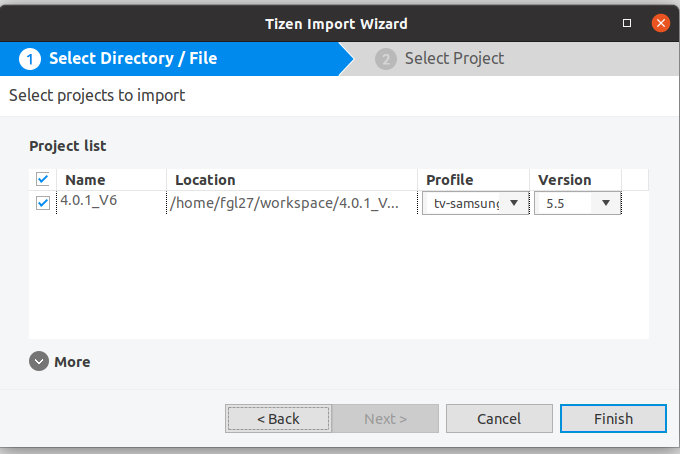
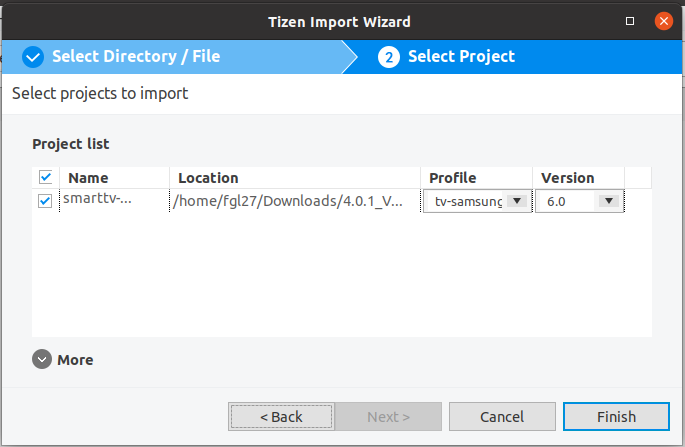
Updadate README.md

diff --git a/README.md b/README.md
@@ -227,11 +227,11 @@ sudo apt-get install openjdk-8-jdk
 
 ![mainsdk](https://fgl27.github.io/smarttv-twitch/screenshot/install/sdk_2.png)
 
-* Second tab **(Extension SDK)** under **TV Extensions-5.X** (or wherever newer/older X.X TV version there is) install **Web app. Development**, install **Samsung Certificate Extension** and under **TV Extension Tools** install **Web app. Tools**
+* Second tab **(Extension SDK)** under **TV Extensions-X.X** (or wherever newer/older X.X TV version there is) install **Web app. Development**, install **Samsung Certificate Extension** and under **TV Extension Tools** install **Web app. Tools**
 
 ![extensionsdk](https://fgl27.github.io/smarttv-twitch/screenshot/install/sdk_4.png)
 
-* After latest update of Tizen Studio version 4.1 the TV Extensions became unavailable, this is a Tizen studio bug that may already be fixed but if that is still a issue when you are reading this check this... [Missing TV extension on Package Manager](https://github.com/fgl27/smarttv-twitch/issues/157#issuecomment-757519336)
+* After latest update of Tizen Studio version 4.1 the TV Extensions became unavailable, this is a Tizen studio bug that may already be fixed but if that is still a issue when you are reading this check this... [Missing TV extension on Package Manager](https://github.com/fgl27/smarttv-twitch/issues/157#issuecomment-842215657)
 * Tizen is always changing the packages that are available some packages may became deprecated and not show anymore, proceed with the installation process even if packages aren't available for you, report a issue if the application doesn't install but make sure you go to all steps at least once again after a problem just revise it all before reporting.*
 * After everything finishes installing as you close the package manager it will ask if you want to open the **Tizen Studio** - click YES to open it. On windows it may ask you to give firewall permission for Tizen.
 
@@ -287,7 +287,7 @@ If you have a problem on connecting refer back to **[Account and Downloads:](htt
 
 ### Setup the application:
 
-* **[Download and extract the release_4_0_1_V7.zip file Click here, this is the application recipe file](https://github.com/fgl27/smarttv-twitch/releases/download/4.0.1_V7/4.0.1_V7.zip)**
+* **[Download and extract the release_4_0_1_V8.zip file Click here, this is the application recipe file](https://github.com/fgl27/smarttv-twitch/releases/download/4.0.1_V8/4.0.1_V8.zip)**
 
 * Making the app, Top menu > File >Import > Tizen > Tizen Project > Click Browser > Select the extraced folder > Click Next > Click Finish
 * Wait for it to load
@@ -299,7 +299,11 @@ If you have a problem on connecting refer back to **[Account and Downloads:](htt
 ![install_app5](https://fgl27.github.io/smarttv-twitch/screenshot/install/install_app5.png)
 ![install_app5](https://fgl27.github.io/smarttv-twitch/screenshot/install/install_app6.png)
 
-* After latest update of Tizen Studio version 4.1 the TV Extensions became unavailable causing a error on the above step, this is a Tizen studio bug that may already be fixed but if that is still a issue when you are reading this check this... [Missing TV extension on Package Manager](https://github.com/fgl27/smarttv-twitch/issues/157#issuecomment-757519336)
+* **Version** on the above image is the TV Extensions-X.X that you install on the bellow image, make sure to selected here is the same version number from the one you installed, as Tizen may receive updates and the day you are reading this 6.0 isn't available
+
+![extensionsdk](https://fgl27.github.io/smarttv-twitch/screenshot/install/sdk_4.png)
+
+* After latest update of Tizen Studio version 4.1 the TV Extensions became unavailable causing a error on the above step, this is a Tizen studio bug that may already be fixed but if that is still a issue when you are reading this check this... [Missing TV extension on Package Manager](https://github.com/fgl27/smarttv-twitch/issues/157#issuecomment-842215657)
 
 ### Install the application:
 
